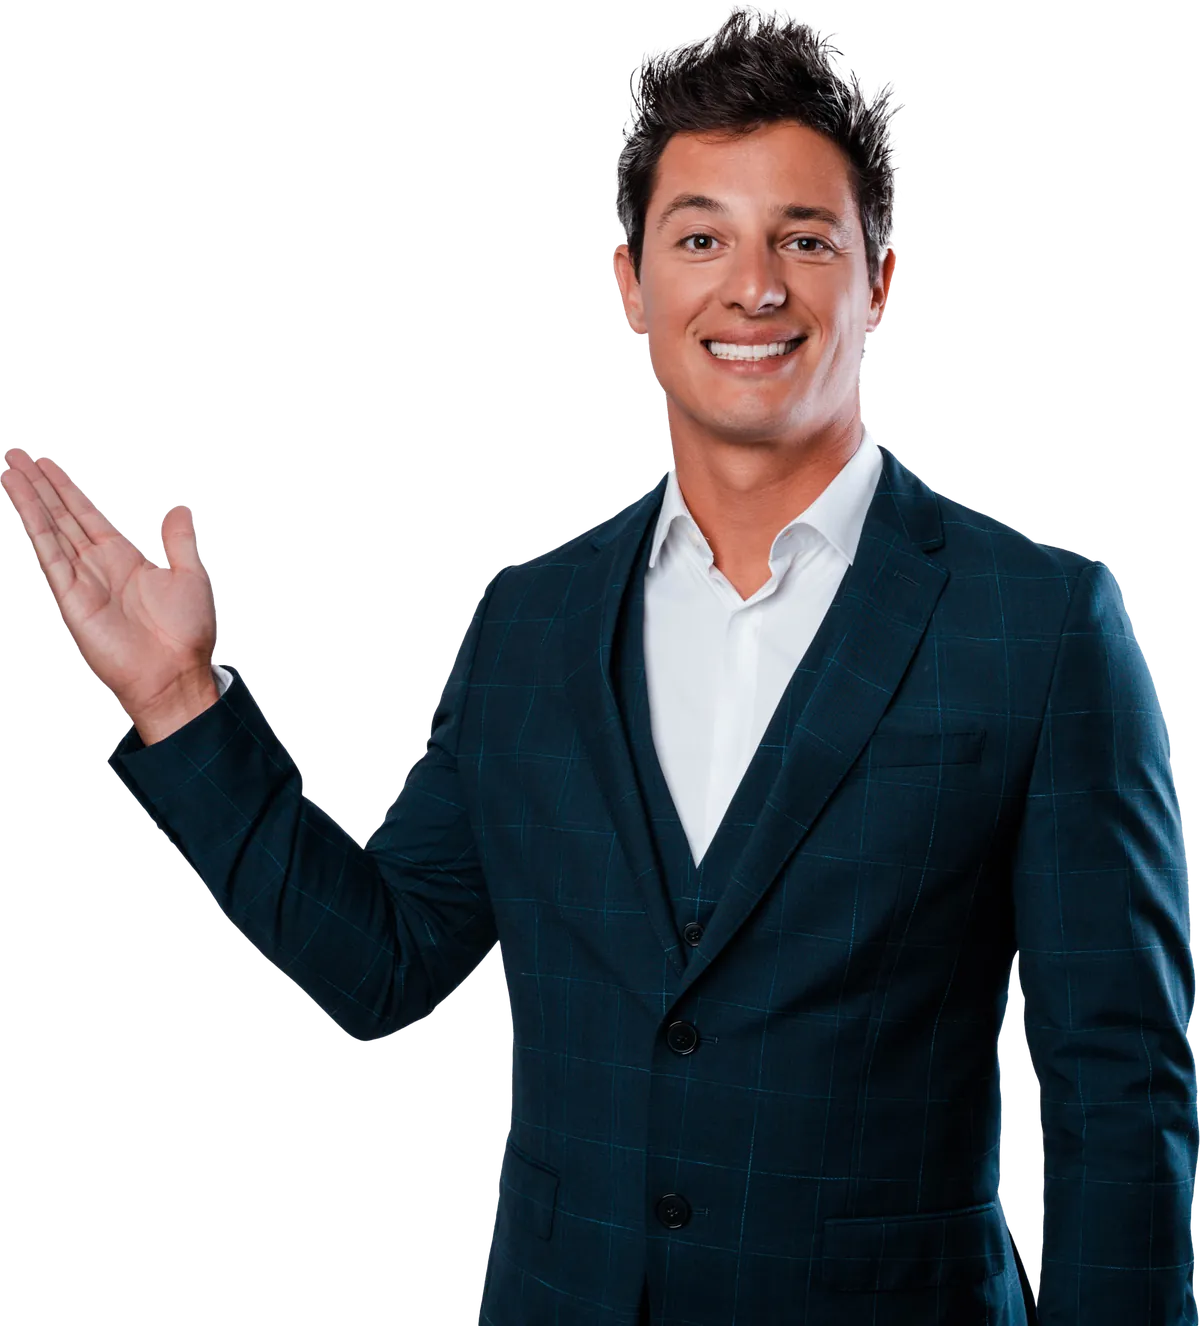
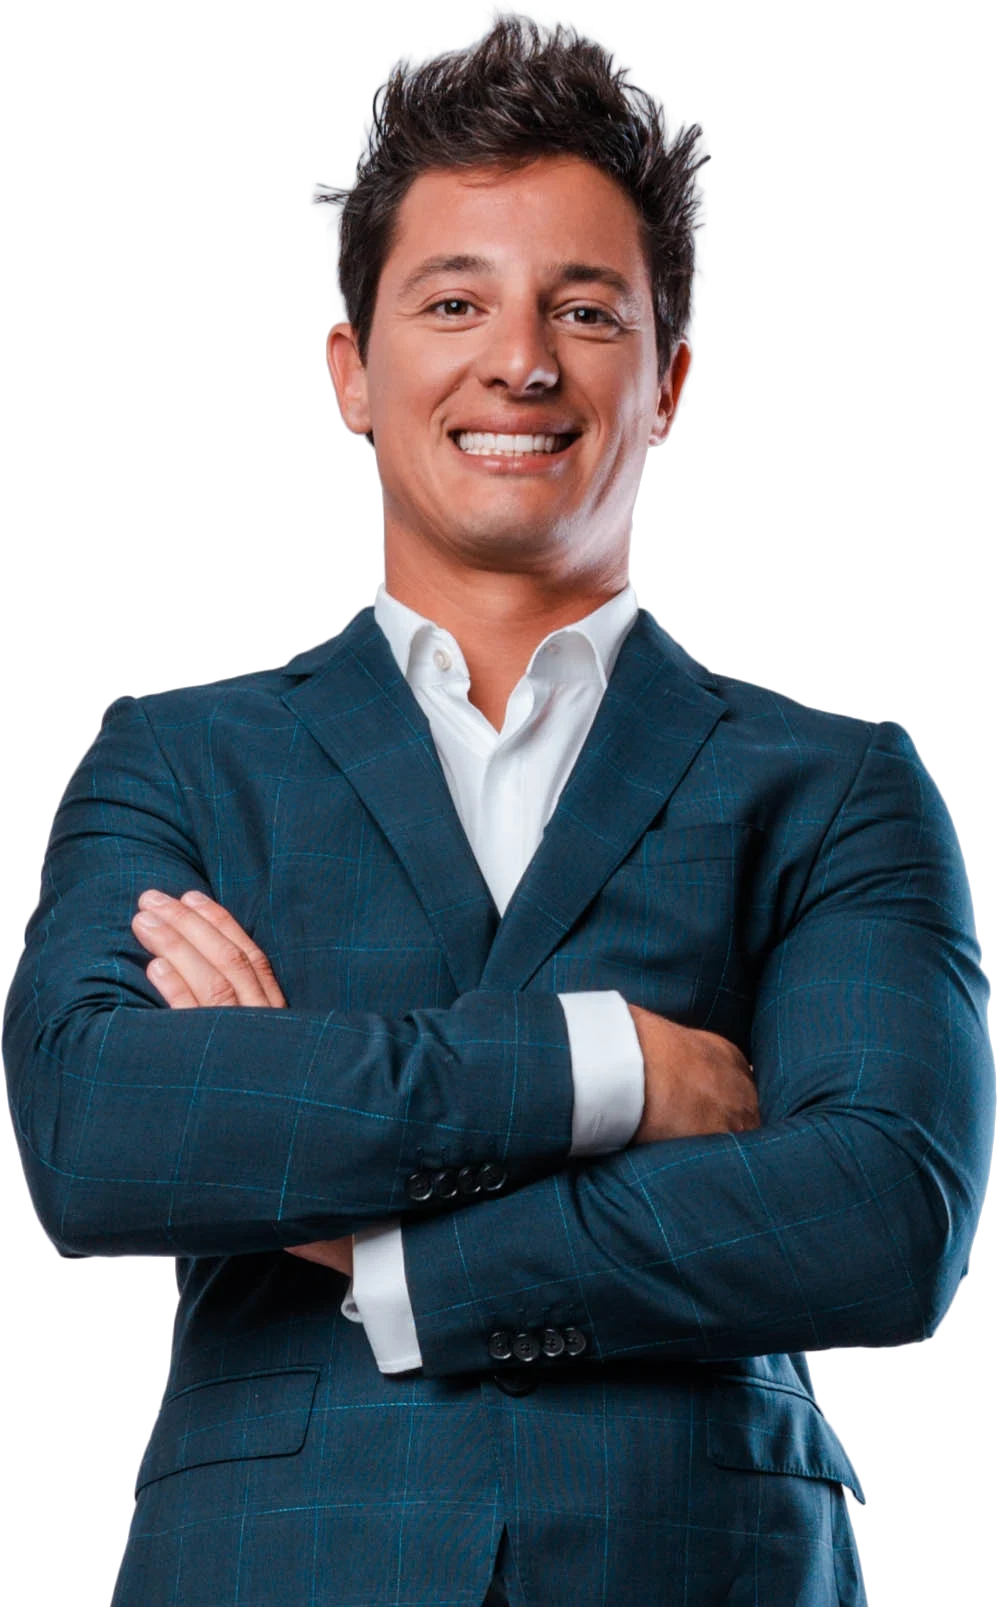
Troca foto da hero por nova foto do Dr. Christian (braços cruzados)
Claude-Session: https://claude.ai/code/session_01U6HscrW95zK88CRy7vCqjk

diff --git a/index.html b/index.html
@@ -86,7 +86,7 @@
       <div class="hero-media" data-reveal="right">
         <div class="hero-cutout">
           <div class="hero-photo">
-            <img src="images/christian-andrade.webp" alt="Dr. Christian Andrade" width="1200" height="1326" loading="eager" fetchpriority="high">
+            <img src="images/christian-andrade.webp" alt="Dr. Christian Andrade" width="998" height="1607" loading="eager" fetchpriority="high">
             <div class="hero-ribbon">Número 1 em Implantes Neodent do Brasil &middot; Garantia Vitalícia</div>
           </div>
         </div>

diff --git a/tools/pages_main.py b/tools/pages_main.py
@@ -63,7 +63,7 @@ def build_home():
       <div class="hero-media" data-reveal="right">
         <div class="hero-cutout">
           <div class="hero-photo">
-            <img src="images/christian-andrade.webp" alt="Dr. Christian Andrade" width="1200" height="1326" loading="eager" fetchpriority="high">
+            <img src="images/christian-andrade.webp" alt="Dr. Christian Andrade" width="998" height="1607" loading="eager" fetchpriority="high">
             <div class="hero-ribbon">Número 1 em Implantes Neodent do Brasil &middot; Garantia Vitalícia</div>
           </div>
         </div>
